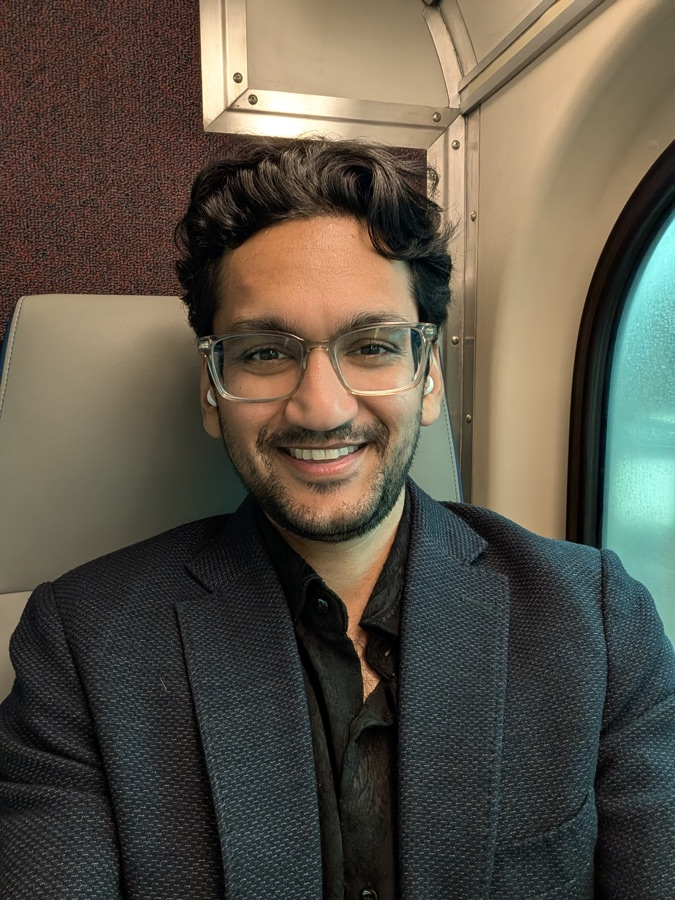
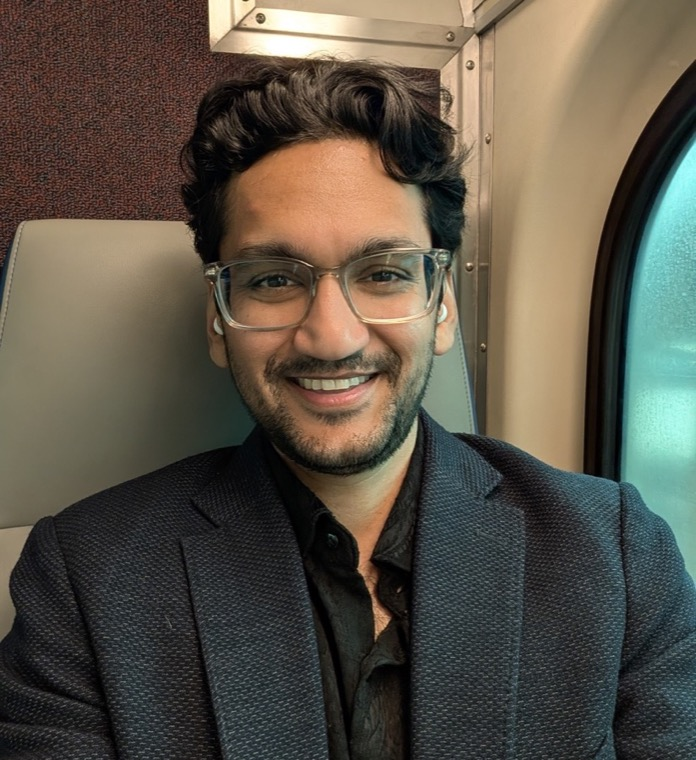
Portfolio: crop portrait face-forward, align with intro

diff --git a/deploy/landing/index.html b/deploy/landing/index.html
@@ -69,12 +69,12 @@
   .top .where{font-family:var(--mono); font-size:.72rem; letter-spacing:.14em; color:var(--faint); text-transform:uppercase}
 
   /* ---------- hero: the person ---------- */
-  .hero{padding-top:10vh; position:relative; z-index:2; display:grid; grid-template-columns:minmax(0,1fr) 330px; gap:0 64px; align-items:start}
+  .hero{padding-top:10vh; position:relative; z-index:2; display:grid; grid-template-columns:minmax(0,1fr) 300px; gap:0 72px; align-items:start}
   .hero .left{min-width:0}
   .fig{background:var(--surface); border:1px solid var(--line-2); padding:11px 11px 9px}
   .fig img{display:block; width:100%; border:1px solid var(--line)}
   .fig figcaption{font-family:var(--mono); font-size:.66rem; letter-spacing:.12em; text-transform:uppercase; color:var(--faint); margin-top:9px}
-  .hero .fig{margin-top:14px; transform:rotate(.4deg)}
+  .hero .fig{margin-top:96px; transform:rotate(.4deg)}
   .hero h1{
     font-family:var(--serif); font-weight:380; font-variation-settings:"opsz" 144;
     font-size:clamp(4.2rem,13vw,10.5rem); line-height:.95; letter-spacing:-.02em; margin:0;
@@ -257,7 +257,7 @@
   </nav>
   </div>
   <figure class="fig rv">
-    <img src="/img/portrait.jpg" alt="Vibhav Gupta" width="900" height="1200" />
+    <img src="/img/portrait.jpg" alt="Vibhav Gupta" width="697" height="760" />
     <figcaption>fig. 0 — the operator</figcaption>
   </figure>
 </header>